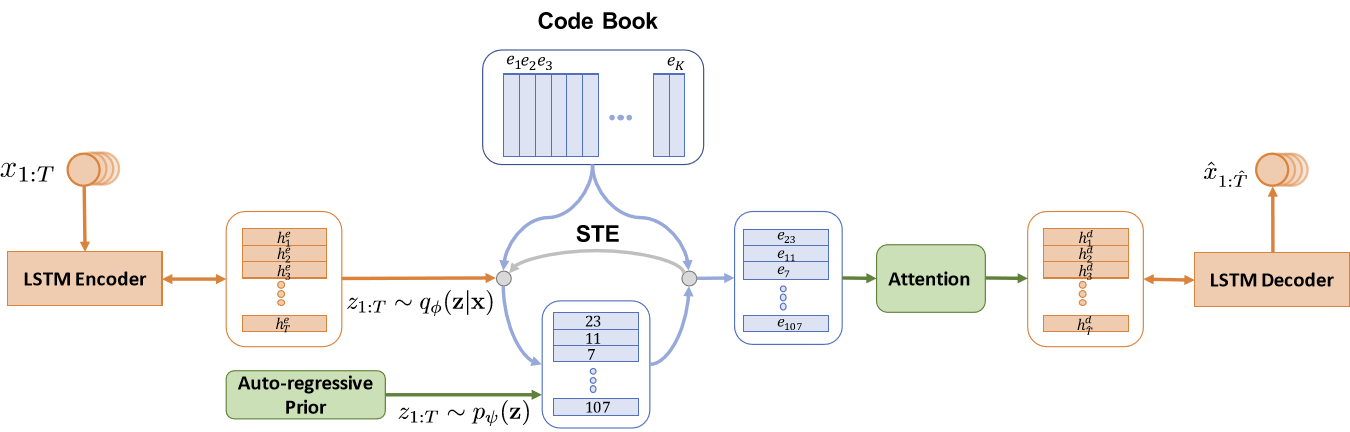
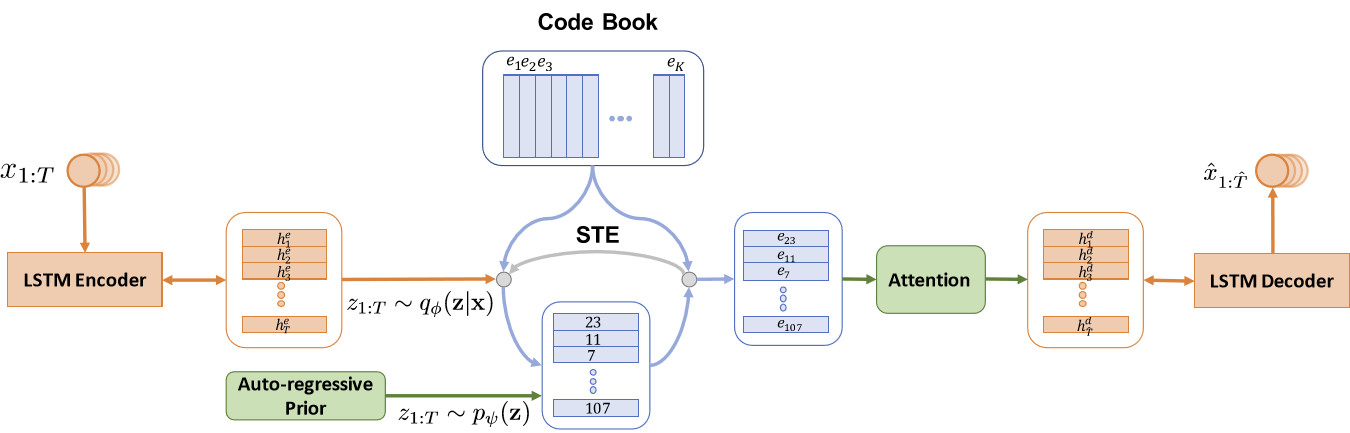
6.25 updates

diff --git a/index.html b/index.html
@@ -90,72 +90,131 @@
       <h2>Publications (* equal contribution)</h2>
 
       <article class="publication">
-        <div class="paper-figure"><img src="images/GAR_pipeline.png" alt="GAR Pipeline preview"></div>
+        <div class="paper-figure figure-gar"><img src="images/GAR_pipeline.png" alt="GAR Pipeline preview"></div>
         <div>
-          <p class="paper-title">GAR Pipeline</p>
-          <p class="authors"><strong>Xianghong Fang</strong>, Coauthor One, Coauthor Two</p>
-          <p class="venue">Conference / Journal, 2026</p>
-          <div class="paper-links"><a href="images/GAR_pipeline.pdf">paper</a><a href="#">project page</a><a href="#">code</a></div>
+          <p class="paper-title">Aligning Reconstruction with Generation: A Latent Distribution Alignment Perspective on Evaluation and Optimization</p>
+          <p class="authors"><strong>Xianghong Fang</strong>*, Wen-Jie Shu*, Tongda Xu, Wenlong Mou, Dehan Kong, Tim G. J. Rudner</p>
+          <p class="venue">Under review, 2026</p>
+          <div class="paper-links"><a href="images/GAR_pipeline.pdf">paper</a><a href="#">code</a><a href="#">project page</a><a href="#">bibtex</a></div>
         </div>
       </article>
 
       <article class="publication">
-        <div class="paper-figure"><img src="images/VQ-Transplant.png" alt="VQ-Transplant preview"></div>
+        <div class="paper-figure figure-vq"><img src="images/VQ-Transplant.png" alt="VQ-Transplant preview"></div>
         <div>
-          <p class="paper-title">VQ-Transplant</p>
-          <p class="authors"><strong>Xianghong Fang</strong>, Coauthor One, Coauthor Two</p>
-          <p class="venue">Conference / Journal, 2026</p>
-          <div class="paper-links"><a href="images/VQ-Transplant.pdf">paper</a><a href="#">project page</a><a href="#">code</a></div>
+          <p class="paper-title">VQ-Transplant: Efficient VQ-Module Integration for Pre-trained Visual Tokenizers</p>
+          <p class="authors"><strong>Xianghong Fang</strong>, Yuan Yuan, Dehan Kong, Tim G. J. Rudner</p>
+          <p class="venue">ICLR, 2026</p>
+          <div class="paper-links">
+            <a href="https://openreview.net/pdf?id=eETr3lrOQB">paper</a>
+            <a href="https://github.com/VQ-Research/VQ-Transplant">code</a>
+            <a href="https://vq-research.github.io/VQ-Transplant/">project page</a>
+            <details class="bibtex-details">
+              <summary>bibtex</summary>
+              <pre>@inproceedings{Fang2026VQTransplant,
+  title={V{Q}-Transplant: Efficient Plug-and-Play VQ-Module Integration for Pre-trained Visual Tokenizers},
+  author={Xianghong Fang and Yuan Yuan and Dehan Kong and Tim G. J. Rudner},
+  booktitle={ICLR},
+  year={2026},
+}</pre>
+            </details>
+          </div>
         </div>
       </article>
 
       <article class="publication">
         <div class="paper-figure figure-distribution"><img src="images/distribution_matching.png" alt="Distribution Matching preview"></div>
         <div>
-          <p class="paper-title">Distribution Matching for Generative Models</p>
-          <p class="authors"><strong>Xianghong Fang</strong>, Coauthor One, Coauthor Two</p>
-          <p class="venue">Conference / Journal, 2026</p>
-          <div class="paper-links"><a href="images/distribution_matching.pdf">paper</a><a href="#">project page</a><a href="#">code</a></div>
+          <p class="paper-title">Distributional Matching for Vector Quantization: A Unified Theoretical and Empirical Framework</p>
+          <p class="authors"><strong>Xianghong Fang</strong>, Litao Guo, Hengchao Chen, Yuxuan Zhang, Xiaofan Xia, Dingjie Song, Yexin Liu, Hao Wang, Harry Yang, Qiang Sun, Yuan Yuan</p>
+          <p class="venue">Under review, 2026</p>
+          <div class="paper-links"><a href="images/distribution_matching.pdf">paper</a><a href="https://github.com/VQ-Research/Wasserstein-VQ">code</a><a href="#">project page</a><a href="#">bibtex</a></div>
         </div>
       </article>
 
       <article class="publication">
         <div class="paper-figure figure-collapse"><img src="images/DimensionalCollapse.png" alt="Dimensional Collapse preview"></div>
         <div>
-          <p class="paper-title">Dimensional Collapse in Generative Modeling</p>
-          <p class="authors"><strong>Xianghong Fang</strong>, Coauthor One, Coauthor Two</p>
-          <p class="venue">Conference / Journal, 2026</p>
-          <div class="paper-links"><a href="images/DimensionalCollapse.pdf">paper</a><a href="#">project page</a><a href="#">code</a></div>
+          <p class="paper-title">Rethinking the uniformity metric in self-supervised learning</p>
+          <p class="authors"><strong>Xianghong Fang</strong>, Jian Li, Qiang Sun, Benyou Wang</p>
+          <p class="venue">ICLR, 2024</p>
+          <div class="paper-links">
+            <a href="https://proceedings.iclr.cc/paper_files/paper/2024/file/21bcef9a879b85714387f94d7ecc2c91-Paper-Conference.pdf">paper</a>
+            <a href="https://github.com/sunset-clouds/WassersteinUniformityMetric">code</a>
+            <details class="bibtex-details">
+              <summary>bibtex</summary>
+              <pre>@inproceedings{Fang2024RethinkingTU,
+  title={Rethinking the Uniformity Metric in Self-Supervised Learning},
+  author={Xianghong Fang and Jian Li and Qiang Sun and Benyou Wang},
+  booktitle={ICLR},
+  year={2024}
+}</pre>
+            </details>
+          </div>
         </div>
       </article>
 
       <article class="publication">
         <div class="paper-figure"><img src="images/IDPrior.png" alt="IDPrior preview"></div>
         <div>
-          <p class="paper-title">IDPrior</p>
-          <p class="authors"><strong>Xianghong Fang</strong>, Coauthor One, Coauthor Two</p>
-          <p class="venue">Conference / Journal, 2026</p>
-          <div class="paper-links"><a href="images/IDPrior.pdf">paper</a><a href="#">project page</a><a href="#">code</a></div>
+          <p class="paper-title">Controlled text generation using dictionary prior in variational autoencoders</p>
+          <p class="authors"><strong>Xianghong Fang</strong>, Jian Li, Lifeng Shang, Xin Jiang, Qun Liu, Dit-Yan Yeung</p>
+          <p class="venue">ACL Findings, 2022</p>
+          <div class="paper-links">
+            <a href="https://aclanthology.org/2022.findings-acl.10.pdf">paper</a>
+            <details class="bibtex-details">
+              <summary>bibtex</summary>
+              <pre>@inproceedings{Fang2022ControlledTG,
+  title={Controlled Text Generation Using Dictionary Prior in Variational Autoencoders},
+  author={Xianghong Fang and Jian Li and Lifeng Shang and Xin Jiang and Qun Liu and Dit-Yan Yeung},
+  booktitle={ACL},
+  year={2022},
+}</pre>
+            </details>
+          </div>
         </div>
       </article>
 
       <article class="publication">
-        <div class="paper-figure figure-davam"><img src="images/DAVAM.png" alt="DAVAM preview"></div>
+        <div class="paper-figure figure-davam"><img src="images/DAVAM.png?v=20260625" alt="DAVAM preview"></div>
         <div>
-          <p class="paper-title">DAVAM: A Placeholder Publication Title</p>
-          <p class="authors"><strong>Xianghong Fang</strong>, Coauthor One, Coauthor Two</p>
-          <p class="venue">Conference / Journal, 2026</p>
-          <div class="paper-links"><a href="images/DAVAM.pdf">paper</a><a href="#">project page</a><a href="#">code</a></div>
+          <p class="paper-title">Discrete auto-regressive variational attention models for text modeling</p>
+          <p class="authors"><strong>Xianghong Fang*</strong>, Haoli Bai*, Jian Li, Zenglin Xu, Michael Lyu, Irwin King</p>
+          <p class="venue">IJCNN, 2021</p>
+          <div class="paper-links">
+            <a href="https://ieeexplore.ieee.org/stamp/stamp.jsp?arnumber=9534375">paper</a>
+            <a href="https://github.com/sunset-clouds/DAVAM">code</a>
+            <details class="bibtex-details">
+              <summary>bibtex</summary>
+              <pre>@article{Fang2021DiscreteAV,
+  title={Discrete Auto-regressive Variational Attention Models for Text Modeling},
+  author={Xianghong Fang and Haoli Bai and Zenglin Xu and Michael R. Lyu and Irwin King},
+  journal={IJCNN},
+  year={2021},
+}</pre>
+            </details>
+          </div>
         </div>
       </article>
 
       <article class="publication">
         <div class="paper-figure figure-dart"><img src="images/DART.png" alt="DART preview"></div>
         <div>
-          <p class="paper-title">DART: A Placeholder Publication Title</p>
-          <p class="authors"><strong>Xianghong Fang</strong>, Coauthor One, Coauthor Two</p>
-          <p class="venue">Conference / Journal, 2026</p>
-          <div class="paper-links"><a href="images/DART.pdf">paper</a><a href="#">project page</a><a href="#">code</a></div>
+          <p class="paper-title">DART: Domain-adversarial residual-transfer networks for unsupervised cross-domain image classification</p>
+          <p class="authors"><strong>Xianghong Fang</strong>, Haoli Bai, Ziyi Guo, Bin Shen, Steven Hoi, Zenglin Xu</p>
+          <p class="venue">Neural Networks, 2020</p>
+          <div class="paper-links">
+            <a href="https://arxiv.org/pdf/1812.11478">paper</a>
+            <details class="bibtex-details">
+              <summary>bibtex</summary>
+              <pre>@article{Fang2020DARTDR,
+  title={DART: Domain-Adversarial Residual-Transfer Networks for Unsupervised Cross-Domain Image Classification},
+  author={Xianghong Fang and Haoli Bai and Ziyi Guo and Bin Shen and Steven C. H. Hoi and Zenglin Xu},
+  journal={Neural networks},
+  year={2020},
+}</pre>
+            </details>
+          </div>
         </div>
       </article>
     </section>

diff --git a/main.css b/main.css
@@ -147,6 +147,46 @@ p {
   font-weight: 600;
 }
 
+.bibtex-details {
+  position: relative;
+}
+
+.bibtex-details summary {
+  display: inline-flex;
+  align-items: center;
+  min-height: 28px;
+  padding: 3px 9px;
+  border: 1px solid #b9c8d7;
+  border-radius: 4px;
+  background: #fbfdff;
+  color: var(--link);
+  cursor: pointer;
+  font-size: 14px;
+  font-weight: 600;
+  list-style: none;
+}
+
+.bibtex-details summary::-webkit-details-marker {
+  display: none;
+}
+
+.bibtex-details pre {
+  position: absolute;
+  z-index: 5;
+  top: 34px;
+  left: 0;
+  width: min(620px, 70vw);
+  overflow-x: auto;
+  margin: 0;
+  padding: 10px 12px;
+  border: 1px solid #dce3ea;
+  border-radius: 4px;
+  background: #f8fafc;
+  color: var(--text);
+  font: 13px/1.4 Consolas, Monaco, monospace;
+  white-space: pre;
+}
+
 .links a.social-link {
   min-height: 40px;
   padding: 0;
@@ -214,6 +254,14 @@ p {
   background: var(--panel);
 }
 
+.figure-gar {
+  height: 126px;
+}
+
+.figure-vq {
+  height: 129px;
+}
+
 .figure-distribution {
   height: 99px;
 }
@@ -227,7 +275,7 @@ p {
 }
 
 .figure-dart {
-  height: 104px;
+  height: 140px;
 }
 
 .paper-figure img {